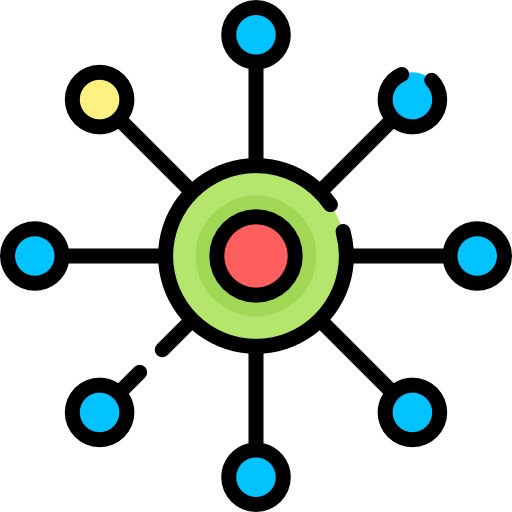
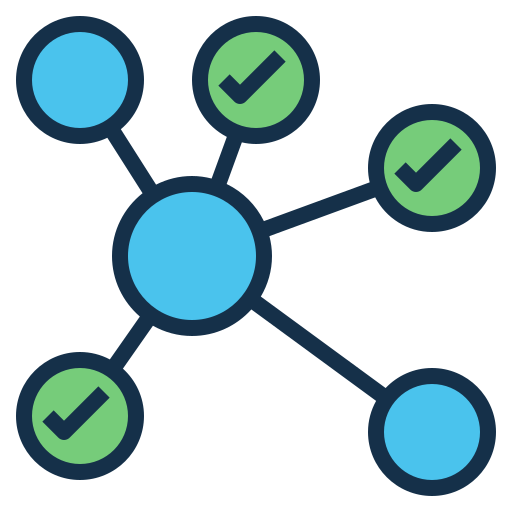
update app feature images

diff --git a/src/ui.py b/src/ui.py
@@ -1,9 +1,11 @@
+import os
 import time
 import streamlit as st
 import spotipy
 from spotipy.oauth2 import SpotifyOAuth
 import streamlit as st
 from src.funcs import *
+
 
 def display_banner():
     st.image("img/home_banner.png")
@@ -39,6 +41,14 @@ def sidebar():
             try:
                 # ---*--- Trigger Spotify OAuth ---*---
                 scope = ["user-library-read", "user-top-read", "user-read-recently-played"]
+
+                # ---*--- Fix .cache inside Docker ---*---
+                '''cache_dir = '.cache'
+                if not os.path.exists(cache_dir):
+                    os.makedirs(cache_dir)
+                os.chmod(cache_dir, 0o700)'''
+
+                # ---*---  ---*---
                 st.session_state.spotify = spotipy.Spotify(auth_manager=SpotifyOAuth(scope=scope))
 
                 liked_tracks_results = st.session_state.spotify.current_user_saved_tracks()
